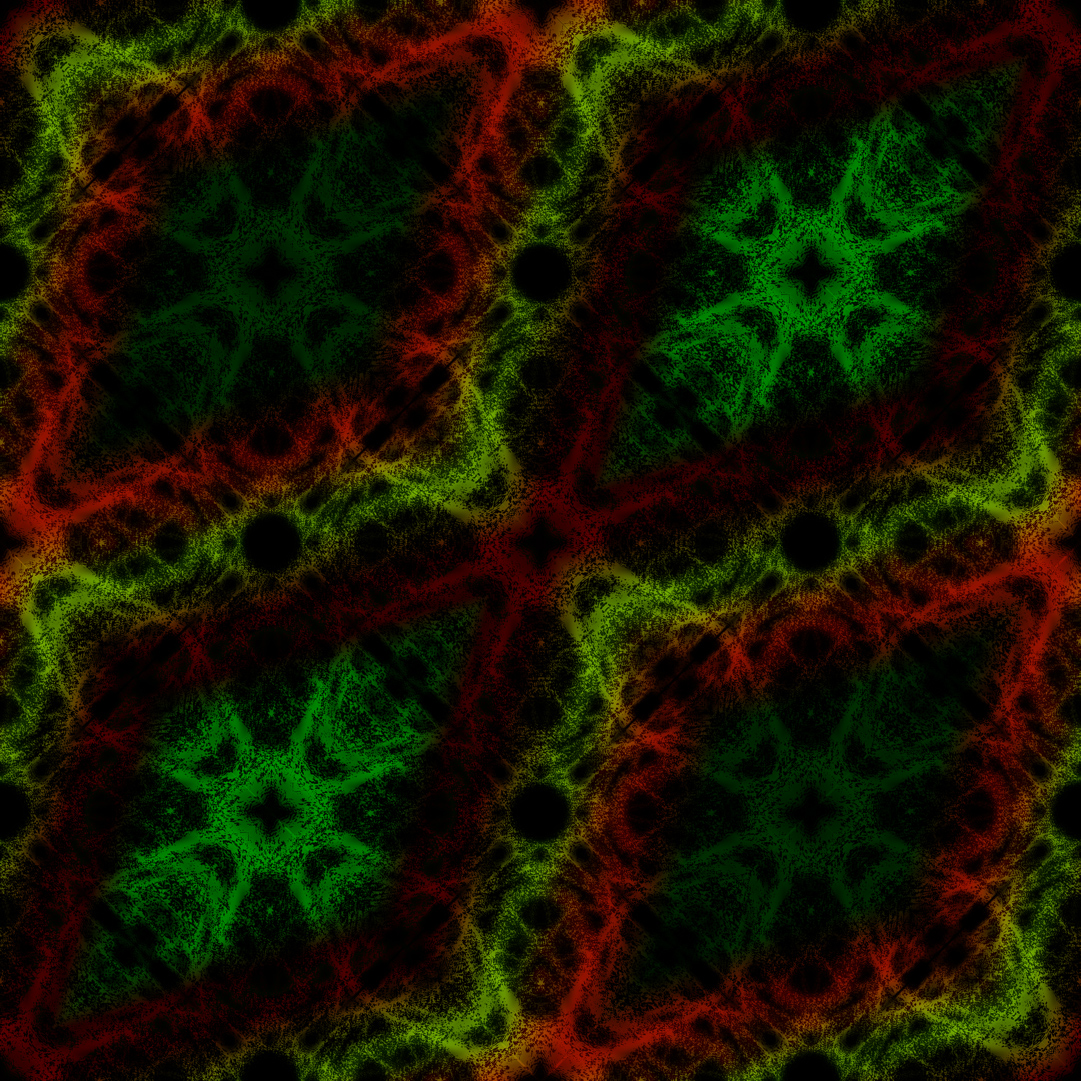
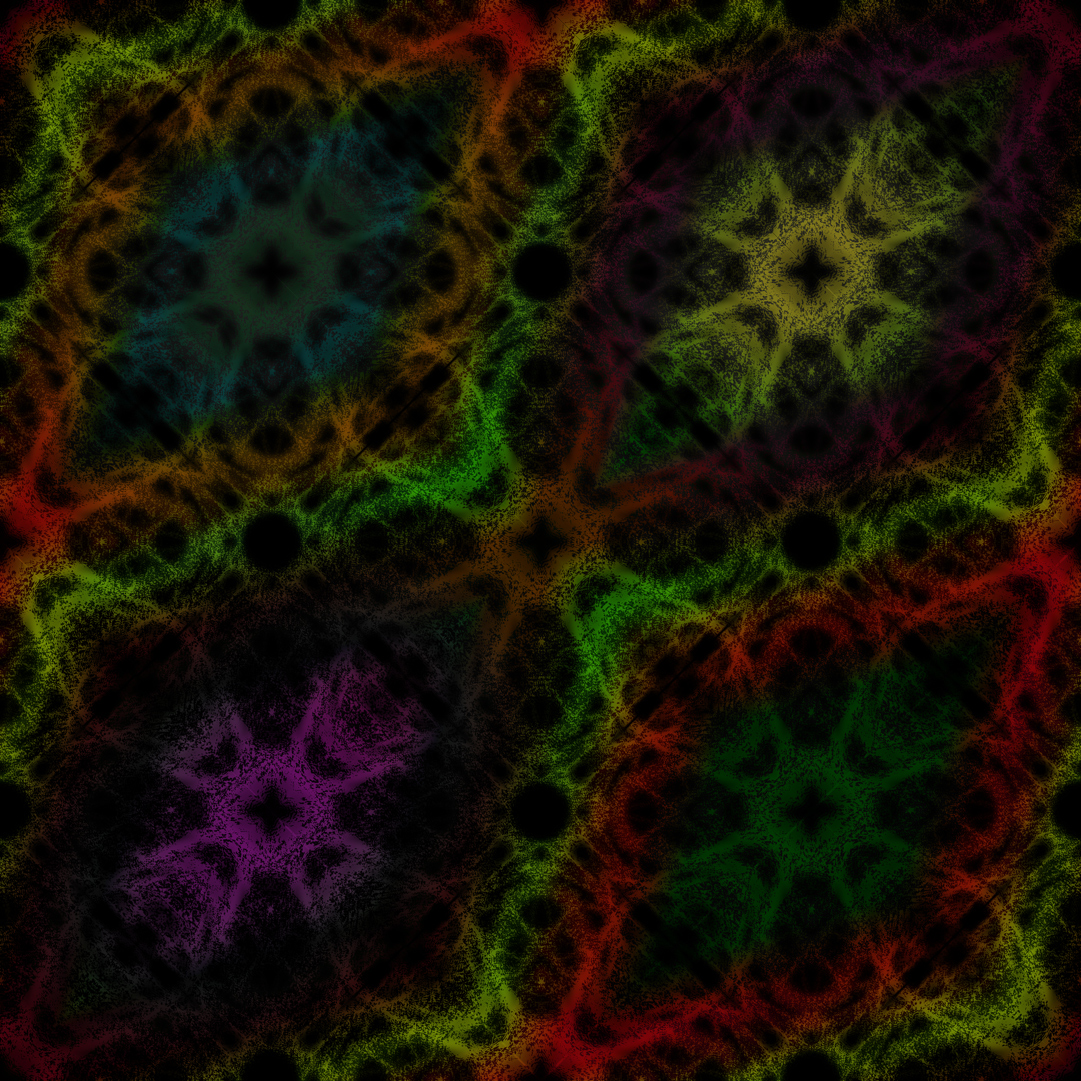
Improved background pattern

diff --git a/Styles/AllAffecting.css b/Styles/AllAffecting.css
@@ -73,11 +73,11 @@ footer{
 /* Article */
 article{
 	background-image: url(../Pictures/patterns/toxicSmall.jpg);
-	background-size: 25vw;
+	background-size: 26.7vw;
 	background-repeat: repeat;
-	background-position-x: -3.2vw;
-	background-position-y: -0.1w;
-	padding: 4.7vw 5.5vw 8.5vmax 5.5vw;
+	background-position-x: -4vw;
+	background-position-y: 2.8vw; /* 2.8vw 16vw */
+	padding: 4.7vw 5.5vw 9.5vmax 5.5vw;
 }
 
 .MainSlogan{
